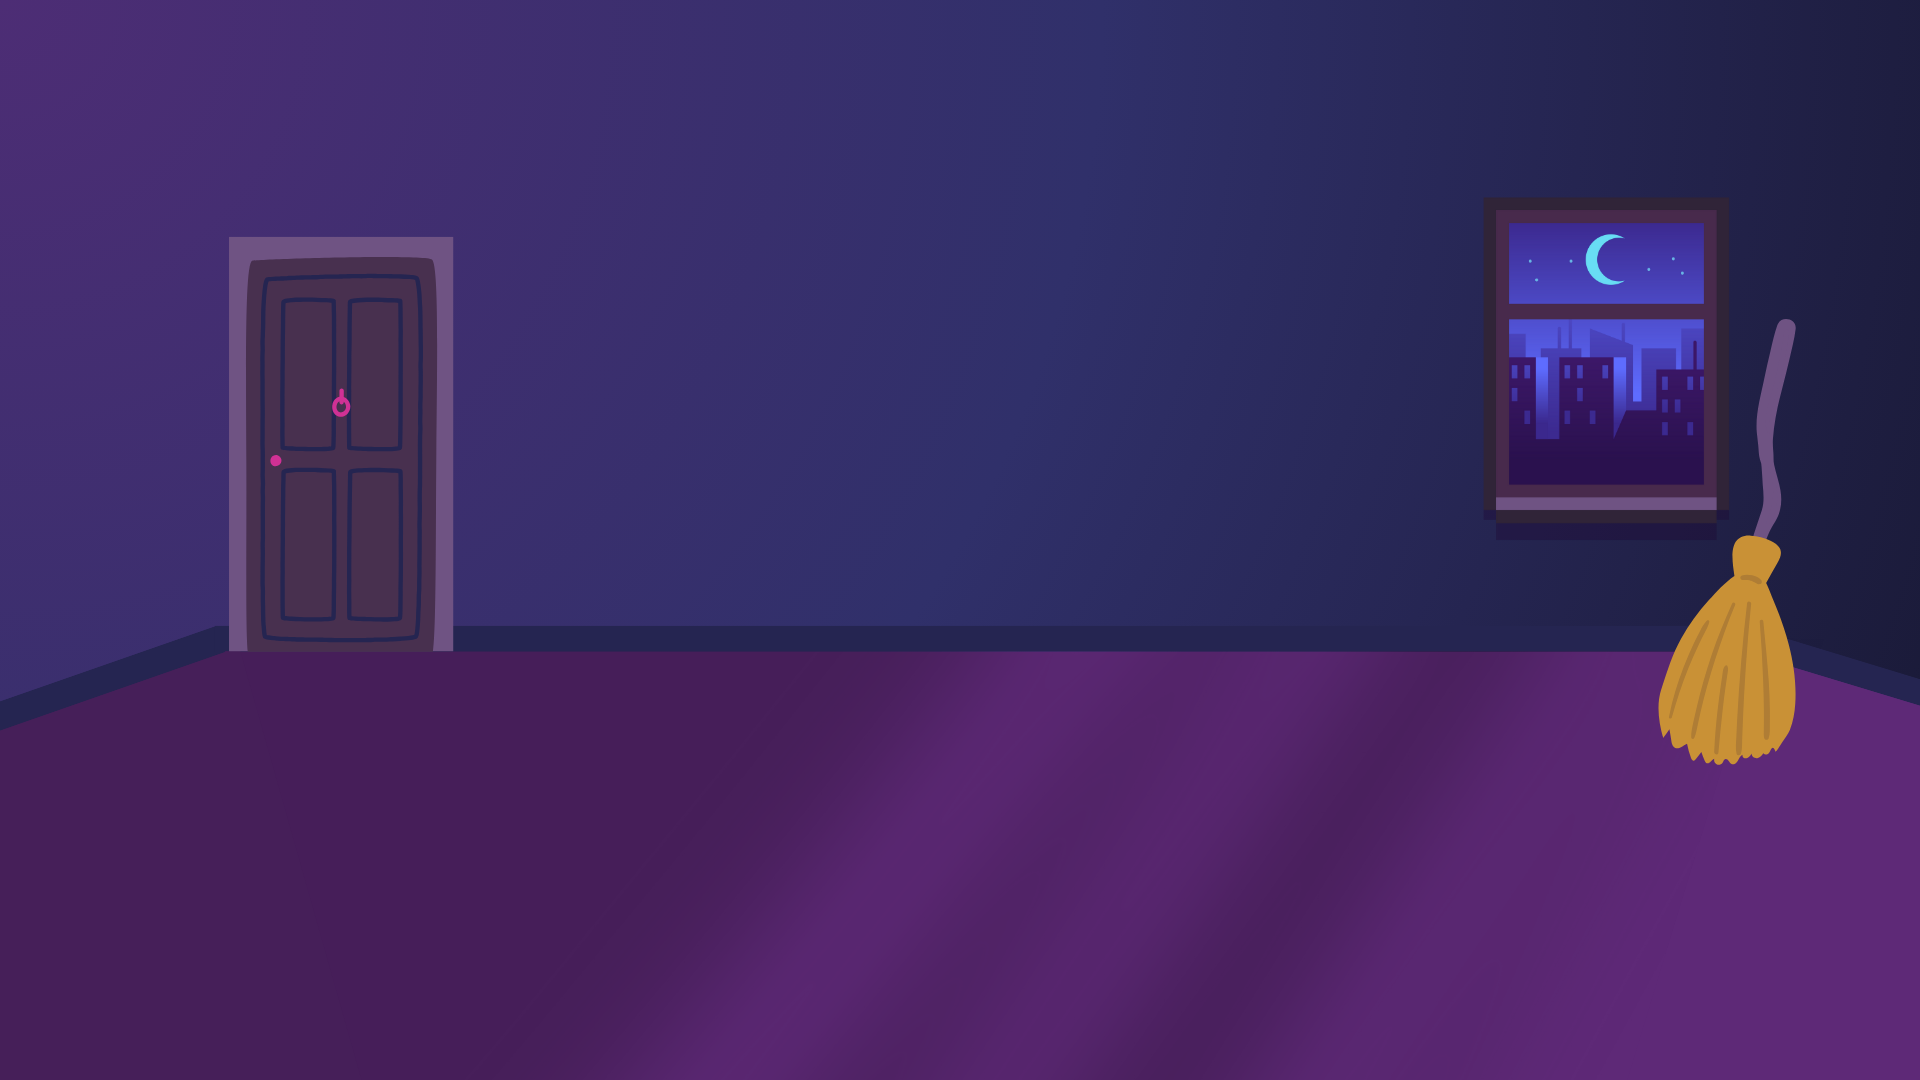
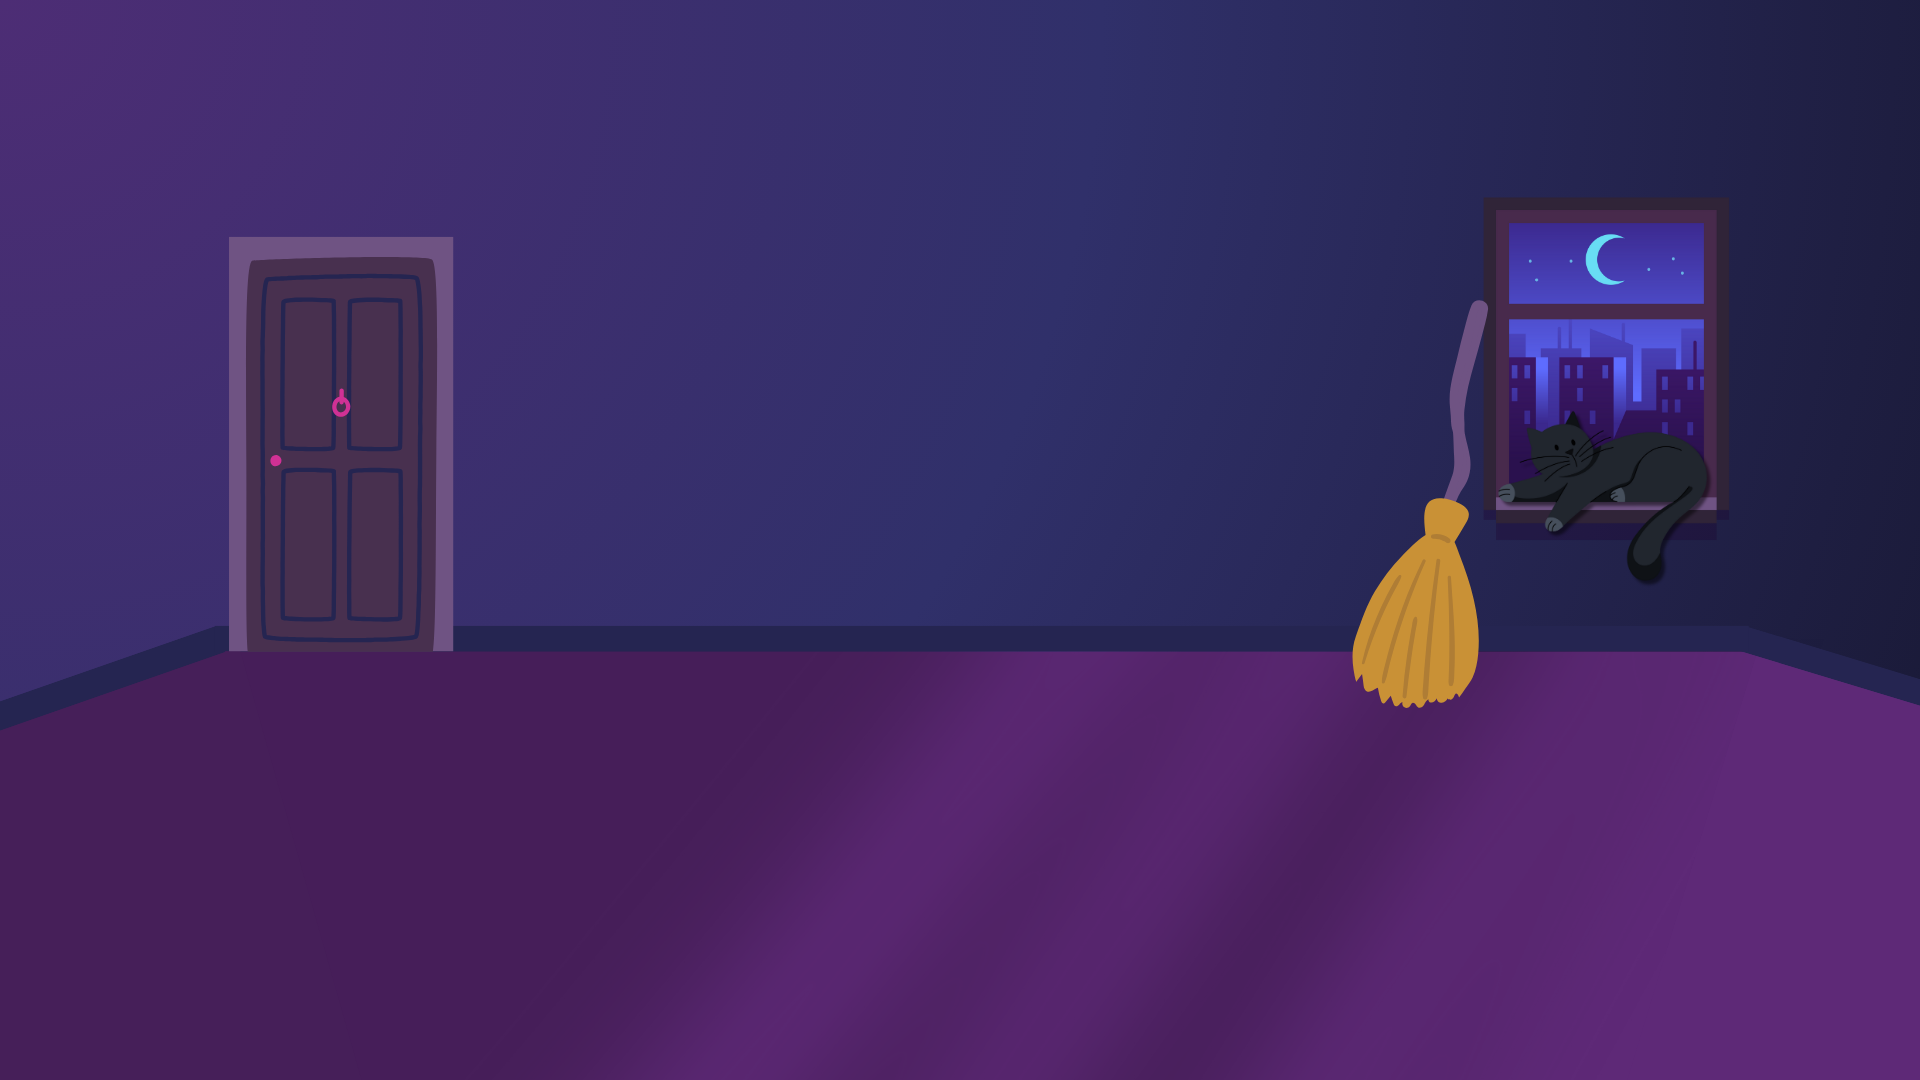
cat :)

Changed region(s): [[0.6875, 0.275, 0.9375, 0.7028]]

diff --git a/src/index.css b/src/index.css
@@ -142,26 +142,32 @@ h2 {
 
 .mascot {
   position: absolute !important;
-  top: 50%;           
-  left: 20px;          
-  transform: translateY(-50%);  
-  z-index: 1;
+  top: 25%;           
+  left: 5%;          
+  z-index: 0;
+}
+
+.mascot-image {
+  width: 150px;      
+  height: auto;      
+  max-height: 450px;  
+  object-fit: contain; 
 }
 
 .sidekick {
   position: absolute !important;
-  bottom: 55%;           
-  right: 90px;          
-  transform: translateY(50%);  
-  z-index: 1;
+  top: 25%;           
+  right: 5%;        
+  z-index: 0;
 }
-/* Updated Mascot Image Class */
-.mascot-image {
+
+.sidekick-image {
   width: 150px;      
-  height: auto;       /* Maintain aspect ratio */
-  max-height: 450px;  /* Ensure maximum height */
-  object-fit: contain; /* Ensure the image fits within the dimensions without stretching */
+  height: auto;      
+  max-height: 450px; 
+  object-fit: contain; 
 }
+
 
 /* Potion Brewer Styles */
 .potion-brewer-container {
